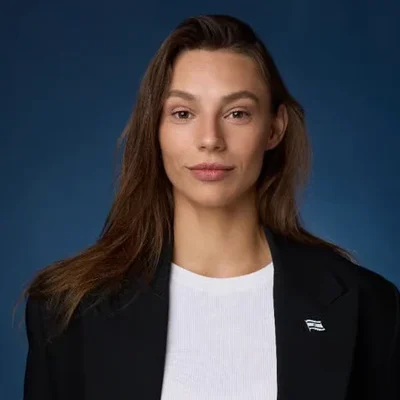
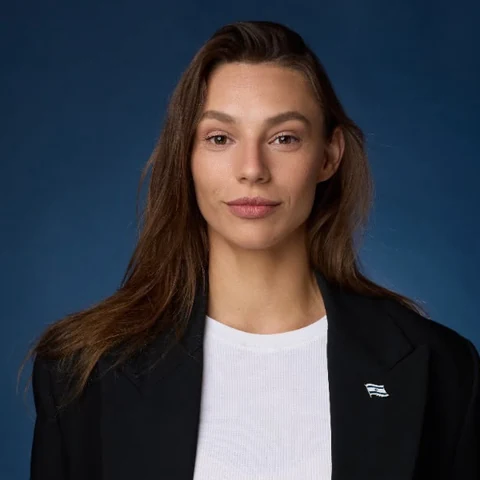
Use the new high-quality photos (#25)
- Main portrait (hero) and the photo with Gadi Eisenkot replaced with
  sharper versions; the Eisenkot photo is now a wider 4:3 crop that
  keeps both of them.
- New on-stage photo at the top of the Speaking section.
- The /links card avatar uses the new portrait.

Claude-Session: https://claude.ai/code/session_01NjdA9RwEG6wfZWgbDrMcKY

diff --git a/assets/css/style.css b/assets/css/style.css
@@ -232,9 +232,9 @@ html[dir="rtl"] .press-list { animation-name: marquee-rtl; }
 .section--white { background: var(--white); }
 
 /* Statement */
-.statement--photo .wrap { display: grid; grid-template-columns: 0.85fr 1.15fr; gap: clamp(36px, 6vw, 90px); align-items: center; }
+.statement--photo .wrap { display: grid; grid-template-columns: 1fr 1fr; gap: clamp(36px, 6vw, 90px); align-items: center; }
 .statement-photo { margin: 0; }
-.statement-photo img { width: 100%; height: auto; aspect-ratio: 1 / 1; object-fit: cover; border-radius: var(--r-lg); }
+.statement-photo img { width: 100%; height: auto; aspect-ratio: 4 / 3; object-fit: cover; border-radius: var(--r-lg); }
 .statement blockquote { margin: 0; }
 .statement p { font-size: clamp(28px, 3.4vw, 48px); font-weight: 700; line-height: 1.15; letter-spacing: -0.02em; margin: 0; }
 html[lang="he"] .statement p { letter-spacing: 0; line-height: 1.2; }
@@ -242,7 +242,7 @@ html[lang="he"] .statement p { letter-spacing: 0; line-height: 1.2; }
 .statement cite { display: flex; flex-wrap: wrap; align-items: center; gap: 6px 10px; margin-top: 30px; font-style: normal; font-size: 16px; color: var(--muted-on-dark); }
 .statement cite strong { color: var(--white); font-weight: 700; }
 .quote-mark { font-size: 90px; font-weight: 700; line-height: 0.6; color: var(--sky); display: block; height: 44px; }
-@media (max-width: 860px) { .statement--photo .wrap { grid-template-columns: 1fr; } .statement-photo { max-width: 480px; } }
+@media (max-width: 860px) { .statement--photo .wrap { grid-template-columns: 1fr; } .statement-photo { max-width: 620px; } }
 
 /* Facts */
 .facts { display: grid; grid-template-columns: repeat(3, 1fr); gap: 16px; }
@@ -344,6 +344,9 @@ html[dir="rtl"] .fact-num { direction: ltr; text-align: right; }
 
 /* ---------- Speaking ---------- */
 .speaking-top { display: grid; grid-template-columns: 1.1fr 0.9fr; gap: clamp(40px, 6vw, 90px); align-items: end; margin-bottom: clamp(48px, 6vw, 80px); }
+.speaking-photo { margin: 0 0 16px; }
+.speaking-photo img { display: block; width: 100%; height: auto; aspect-ratio: 2 / 1; object-fit: cover; object-position: 60% 12%; border-radius: var(--r-lg); }
+@media (max-width: 860px) { .speaking-photo img { aspect-ratio: 4 / 3; object-position: 64% 40%; border-radius: var(--r-md); } }
 .topics { display: grid; grid-template-columns: repeat(2, 1fr); gap: 16px; }
 .topic { background: var(--card-dark); border-radius: var(--r-lg); padding: clamp(28px, 3.4vw, 44px); display: flex; flex-direction: column; transition: background 0.4s var(--ease), transform 0.4s var(--ease); }
 .topic:hover { background: rgba(255, 255, 255, 0.1); transform: translateY(-4px); }

diff --git a/index.html b/index.html
@@ -116,7 +116,7 @@
     <!-- ============ HERO ============ -->
     <section class="hero">
       <div class="hero-media" aria-hidden="true">
-        <img src="assets/img/hero-cover.webp" alt="" width="1400" height="933" fetchpriority="high">
+        <img src="assets/img/hero-cover.webp" alt="" width="1600" height="1067" fetchpriority="high">
       </div>
       <div class="wrap hero-inner">
         <div class="hero-copy">
@@ -163,7 +163,7 @@
     <section class="section section--dark statement statement--photo">
       <div class="wrap">
         <figure class="statement-photo reveal">
-          <img src="assets/img/eisenkot.webp" alt="Eliana Sachs with Gadi Eisenkot" loading="lazy" width="1024" height="1024">
+          <img src="assets/img/eisenkot.webp" alt="Eliana Sachs with Gadi Eisenkot" loading="lazy" width="1422" height="1067">
         </figure>
         <blockquote class="reveal reveal-d1">
           <span class="quote-mark" aria-hidden="true">“</span>
@@ -465,6 +465,10 @@
           </div>
           <p class="lead reveal reveal-d2"><span data-l="en">Eliana speaks with rare honesty about loss, resilience and choosing purpose — and about the generation that will shape Israel's future. Her talks leave audiences with something to act on, not just something to feel.</span><span data-l="he">אליענה מדברת בכנות נדירה על אובדן, חוסן ובחירה במשמעות — ועל הדור שיעצב את עתידה של ישראל. ההרצאות שלה משאירות את הקהל עם משהו לעשות, לא רק עם משהו להרגיש.</span><span data-l="ru">Элиана с редкой откровенностью говорит об утрате, стойкости и выборе смысла — и о поколении, которое определит будущее Израиля. После её выступлений у слушателей остаётся не только чувство, но и желание действовать.</span></p>
         </div>
+
+        <figure class="speaking-photo reveal">
+          <img src="assets/img/speaking.webp" alt="Eliana Sachs speaking on stage at a Yashar! event" loading="lazy" width="1800" height="1199">
+        </figure>
 
         <div class="topics">
           <article class="topic reveal">
